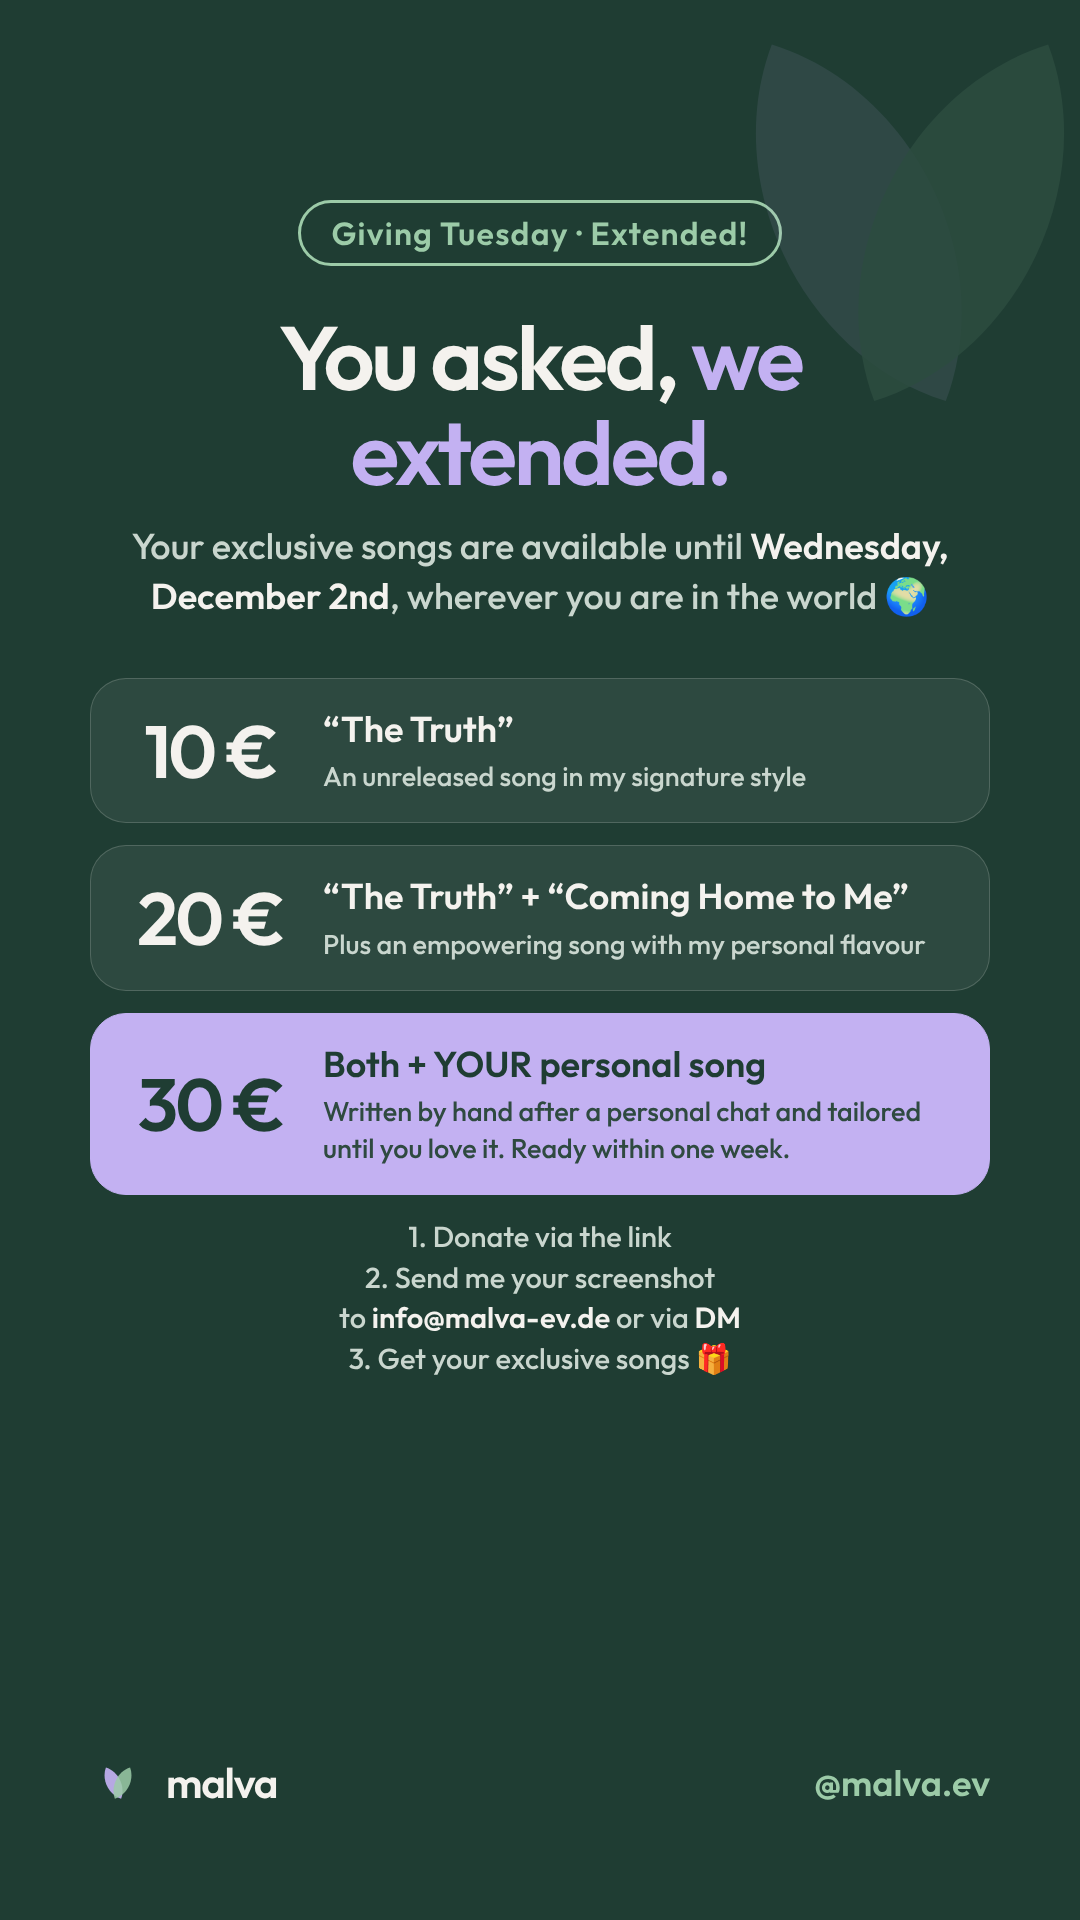
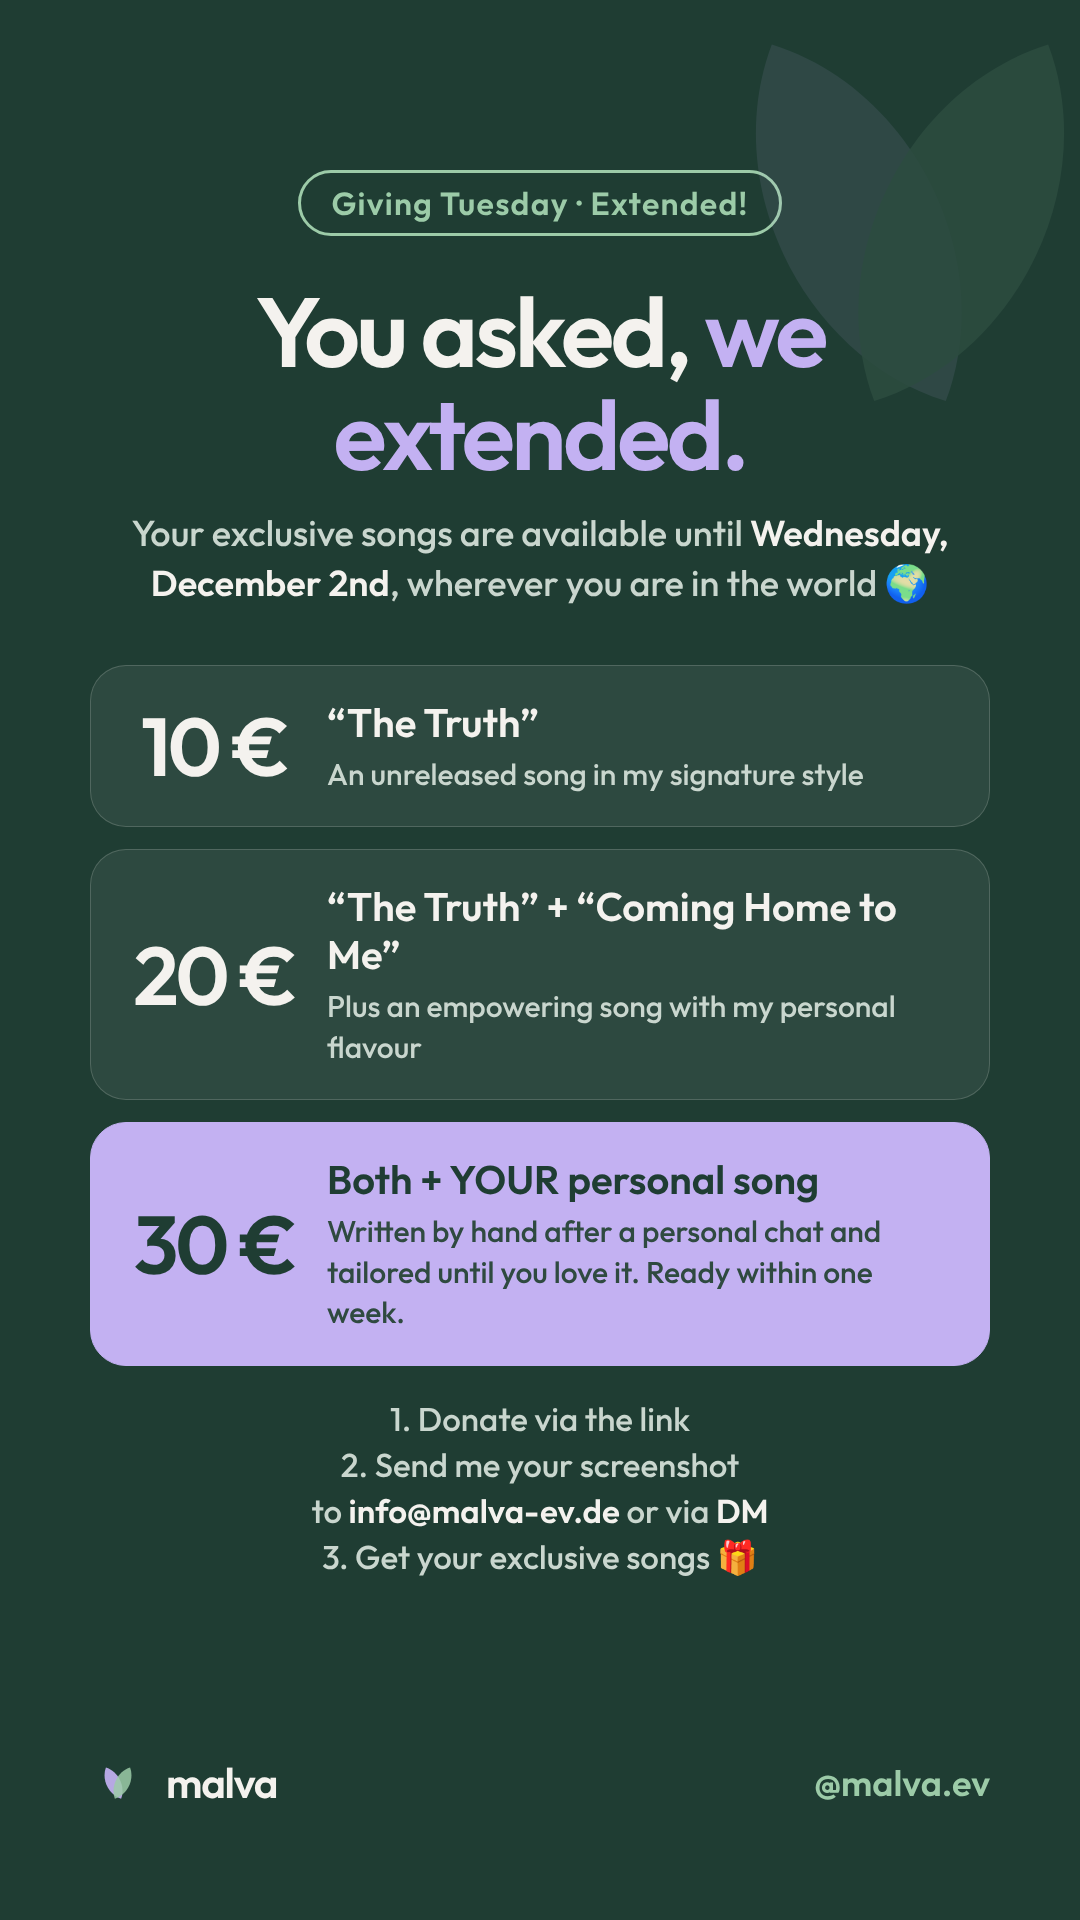
Giving Tuesday: Stories größer, weniger Leerraum
Claude-Session: https://claude.ai/code/session_015uEer6M6e5oi78ZvJtGjnt

Changed region(s): [[0.0611, 0.0938, 0.9167, 0.8438], [0.1222, 0.375, 0.275, 0.4062]]

diff --git a/malva-website/instagram/giving-tuesday/stories.html b/malva-website/instagram/giving-tuesday/stories.html
@@ -40,6 +40,29 @@ h1 .hl{color:var(--ll)}
 .card .big small{display:block;font-size:30px;letter-spacing:.02em;color:var(--sl);margin-top:10px}
 .card .t{font-size:40px;line-height:1.25;font-weight:600}
 .card .t span{display:block;font-size:30px;font-weight:500;color:#C9D6CE;margin-top:10px;line-height:1.35}
+
+/* größere Variante: Countdown füllt die ganze Story */
+.big1{justify-content:flex-start;padding-top:190px;padding-bottom:250px}
+.big1 h1{font-size:94px !important}
+.big1 .de{font-size:35px !important;line-height:1.42}
+.big1 .tiers{gap:24px;margin-top:50px}
+.big1 .tier{grid-template-columns:180px 1fr;padding:32px 36px;border-radius:40px}
+.big1 .price{font-size:80px}
+.big1 .tier .t{font-size:39px}
+.big1 .tier .t span{font-size:29px}
+.big1 .countdown{margin-top:56px}
+.big1 .countdown .num{font-size:200px}
+.big1 .countdown .txt{font-size:70px}
+.big1 .how{font-size:33px !important}
+/* mittlere Variante: Platz für den Link-Sticker bleibt */
+.mid1{padding-top:170px}
+.mid1 h1{font-size:98px}
+.mid1 .de{font-size:36px !important}
+.mid1 .tier{padding:32px 38px}
+.mid1 .price{font-size:82px}
+.mid1 .tier .t{font-size:40px}
+.mid1 .tier .t span{font-size:30px}
+.mid1 .how{font-size:33px;margin-top:30px}
 </style></head><body>
 <template id="mark-d"><svg viewBox="0 0 200 200"><path transform="translate(84 104) rotate(-26)" d="M0 -62 C34 -30 34 30 0 62 C-34 30 -34 -30 0 -62 Z" fill="#C3B1F2" fill-opacity=".92"/><path transform="translate(116 104) rotate(26)" d="M0 -62 C34 -30 34 30 0 62 C-34 30 -34 -30 0 -62 Z" fill="#9CCBA8" fill-opacity=".85"/></svg></template>
 <div id="root"></div>
@@ -56,15 +79,14 @@ const tiers = `<div class="tiers">
 let h='';
 if(kind==='count'){
   const n=+amount;
-  h=`<div class="st full" style="padding-top:150px"><span class="deco">${mark()}</span><span class="chip">Giving Tuesday · December 1st</span>
+  h=`<div class="st full big1"><span class="deco">${mark()}</span><span class="chip">Giving Tuesday · December 1st</span>
   <h1 style="font-size:84px">Give a little. <span class="hl">Get something really cool back.</span></h1>
-  <p class="de" style="font-size:31px">On December 1st I'm raising money for my non-profit Malva, so people who can't afford therapy can finally get help. Every euro counts. And you get songs nobody else will ever hear:</p>
+  <p class="de" style="font-size:31px">On December 1st I'm raising money for my non-profit Malva, so people who can't afford therapy can get help. And you get songs nobody else will ever hear:</p>
   ${tiers}
   <div class="countdown"><span class="num">${n}</span><span class="txt">${n===1?'day':'days'} to go</span></div>
-  <p class="how" style="margin-top:14px">All day long, wherever you are in the world 🌍</p>
-  ${foot}</div>`;
+    ${foot}</div>`;
 } else if(kind==='start'){
-  h=`<div class="st full"><span class="deco">${mark()}</span><span class="chip">Giving Tuesday · It's today!</span>
+  h=`<div class="st full mid1"><span class="deco">${mark()}</span><span class="chip">Giving Tuesday · It's today!</span>
   <h1>Songs nobody else <span class="hl">will ever hear.</span></h1>
   <p class="de">Donate for therapy and get exclusive thank-you songs. Every euro counts.</p>
   ${tiers}
@@ -80,13 +102,13 @@ if(kind==='count'){
   <p class="how">There's still time, wherever you are 🌍</p>
   ${foot}</div>`;
 } else if(kind==='last'){
-  h=`<div class="st full" style="justify-content:center"><span class="deco">${mark()}</span><span class="chip">Giving Tuesday · Last chance</span>
+  h=`<div class="st full mid1" style="justify-content:center"><span class="deco">${mark()}</span><span class="chip">Giving Tuesday · Last chance</span>
   <h1>Last call for your <span class="hl">exclusive songs.</span></h1>
   <p class="de" style="font-size:36px">America, it's still Giving Tuesday for you! Donate now and get songs nobody else will ever hear.</p>
   ${tiers}
   ${foot}</div>`;
 } else if(kind==='extended'){
-  h=`<div class="st full"><span class="deco">${mark()}</span><span class="chip">Giving Tuesday · Extended!</span>
+  h=`<div class="st full mid1"><span class="deco">${mark()}</span><span class="chip">Giving Tuesday · Extended!</span>
   <h1>You asked, <span class="hl">we extended.</span></h1>
   <p class="de" style="font-size:36px">Your exclusive songs are available until <b style="color:var(--c)">Wednesday, December 2nd</b>, wherever you are in the world 🌍</p>
   ${tiers}
